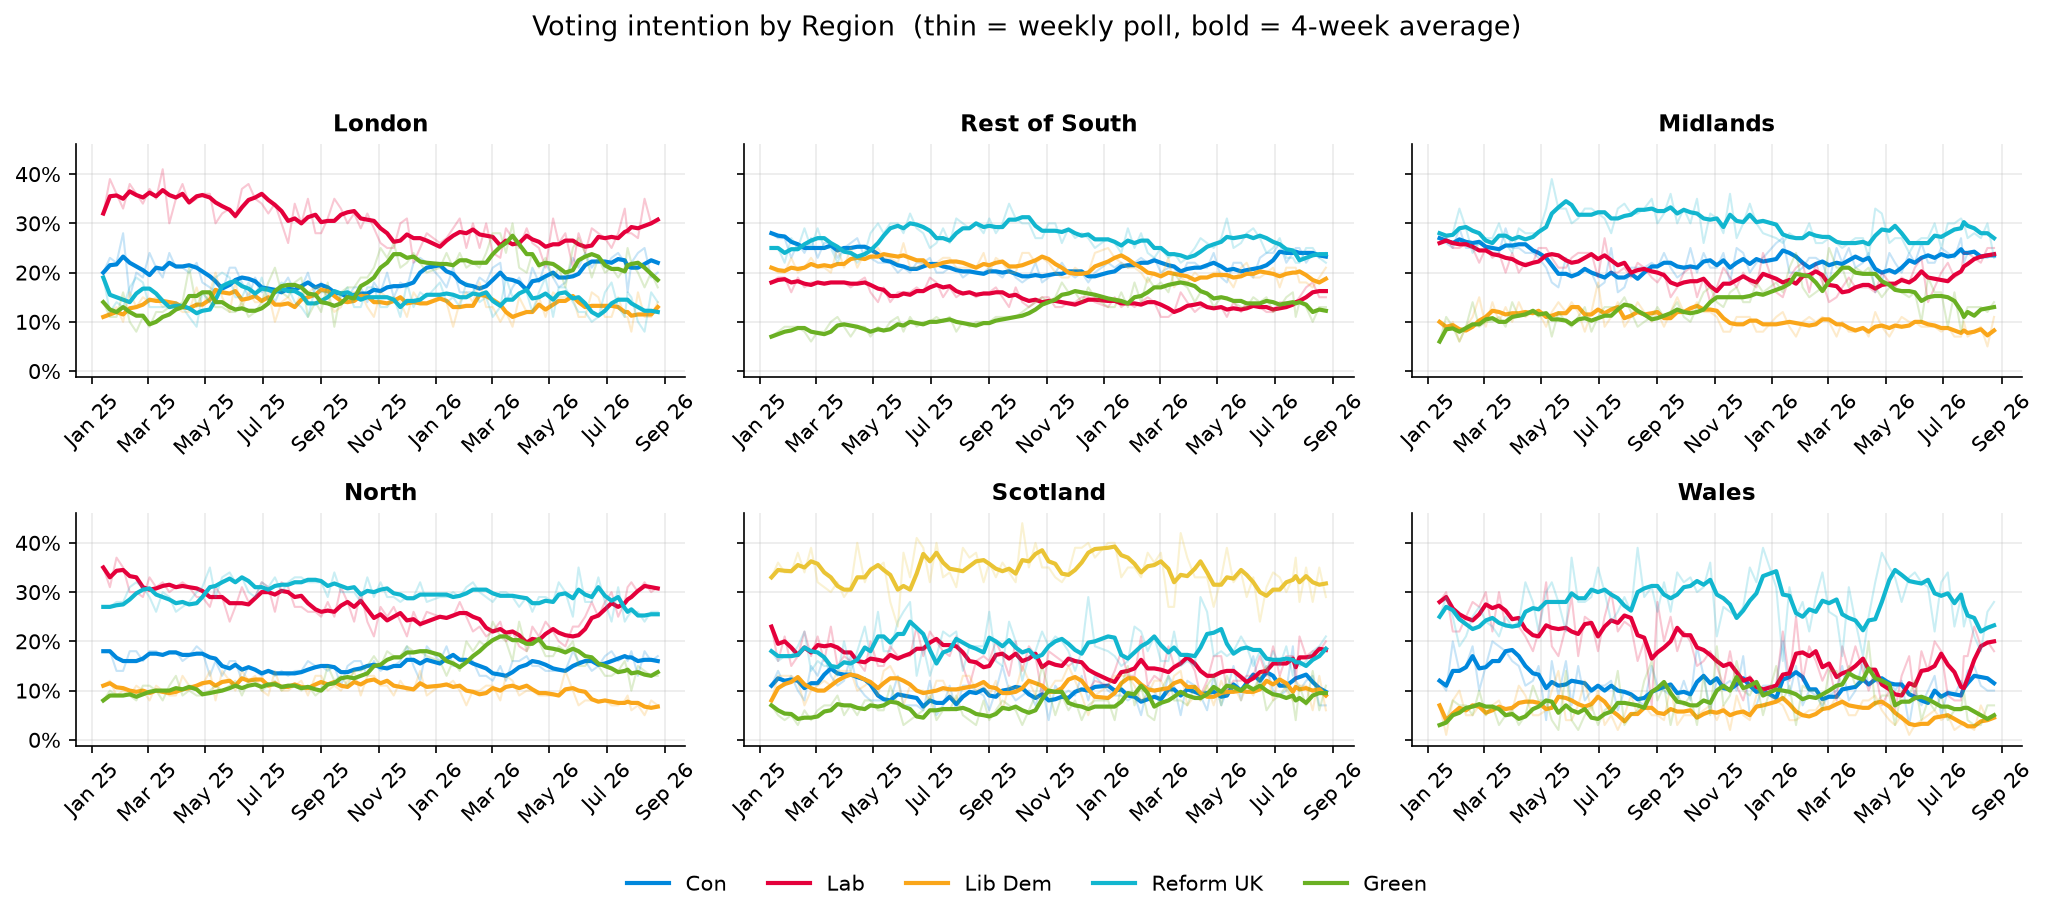
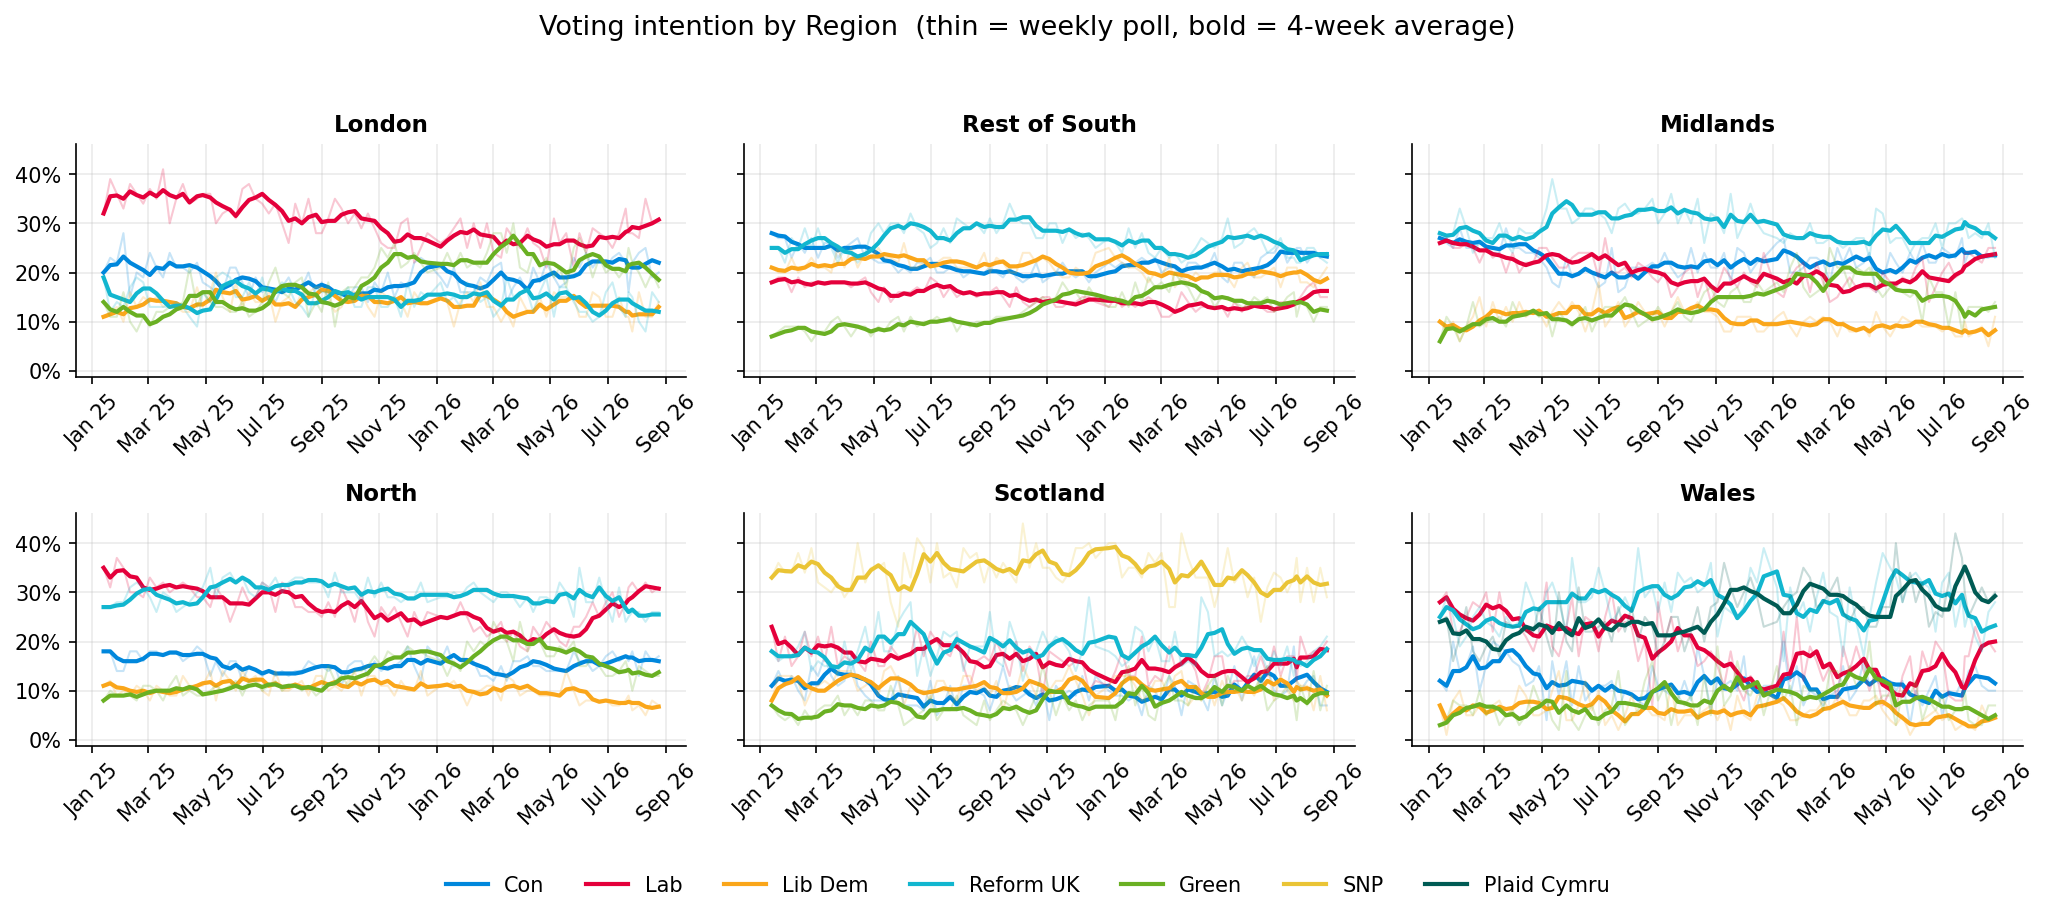
Add Plaid Cymru to Wales region graph

diff --git a/src/voting_intention/plotting.py b/src/voting_intention/plotting.py
@@ -43,6 +43,15 @@ def _pct_formatter(x, _pos=None):
     return f"{x:.0f}%"
 
 
+def _default_category_parties(category: str) -> list[str]:
+    """Return the standard chart parties, including nation-specific parties
+    where their regional series is reported."""
+    parties = list(config.MAIN_PARTIES)
+    if category == "Region" and "Plaid Cymru" not in parties:
+        parties.append("Plaid Cymru")
+    return parties
+
+
 def plot_group_lines(
     ax,
     df: pd.DataFrame,
@@ -131,7 +140,7 @@ def plot_category_grid(
     """Small-multiples figure: one subplot per group within `category`, each
     showing every party's trend line for that group."""
     _apply_style()
-    parties = parties or config.MAIN_PARTIES
+    parties = parties or _default_category_parties(category)
     groups = config.order_groups(category, df.loc[df["category"] == category, "group"].unique())
     n = len(groups)
     ncols = min(ncols, n) or 1
@@ -140,11 +149,12 @@ def plot_category_grid(
     fig, axes = plt.subplots(nrows, ncols, figsize=figsize or (4.6 * ncols, 3.0 * nrows), sharey=True)
     axes = np.atleast_1d(axes).ravel()
 
-    handles_labels = None
+    legend_handles = {}
     for ax, group in zip(axes, groups):
         plot_group_lines(ax, df, category, group, parties=parties, smooth_weeks=smooth_weeks)
-        if handles_labels is None:
-            handles_labels = ax.get_legend_handles_labels()
+        handles, labels = ax.get_legend_handles_labels()
+        for handle, label in zip(handles, labels):
+            legend_handles.setdefault(label, handle)
     for ax in axes[len(groups):]:
         ax.axis("off")
 
@@ -152,11 +162,12 @@ def plot_category_grid(
         f"Voting intention by {category}  (thin = weekly poll, bold = {smooth_weeks}-week average)",
         fontsize=13,
     )
-    if handles_labels and handles_labels[0]:
+    if legend_handles:
         fig.legend(
-            *handles_labels,
+            list(legend_handles.values()),
+            list(legend_handles.keys()),
             loc="lower center",
-            ncol=min(8, len(handles_labels[0])),
+            ncol=min(8, len(legend_handles)),
             frameon=False,
             bbox_to_anchor=(0.5, -0.02),
         )
@@ -177,7 +188,7 @@ def plot_category_group(
 ):
     """Plot a single group's trend as a standalone chart."""
     _apply_style()
-    parties = parties or config.MAIN_PARTIES
+    parties = parties or _default_category_parties(category)
     fig, ax = plt.subplots(figsize=figsize)
     plot_group_lines(
         ax, df, category, group, parties=parties, smooth_weeks=smooth_weeks, legend=False

diff --git a/src/voting_intention/config.py b/src/voting_intention/config.py
@@ -23,8 +23,8 @@ PARTY_ORDER = ["Con", "Lab", "Lib Dem", "Reform UK", "Green", "SNP", "Plaid Cymr
 HOME_REGION_BY_PARTY = {"SNP": "Scotland", "Plaid Cymru": "Wales"}
 
 # Parties usually worth putting on the same "headline" charts (small multiples
-# get unreadable with all 8). Plaid Cymru and Other are still fully analysed
-# in the summary tables -- they're just left off the default grid plots.
+# get unreadable with all 8). Plaid Cymru is added to regional charts for Wales.
+# Other remains available in summary tables, but is left off default plots.
 MAIN_PARTIES = ["Con", "Lab", "Lib Dem", "Reform UK", "Green", "SNP"]
 
 PARTY_LABELS = {
